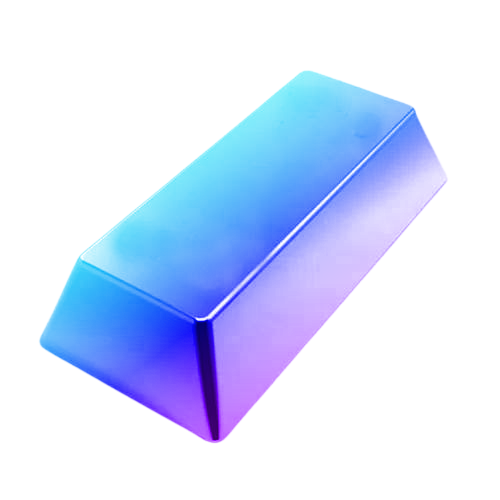
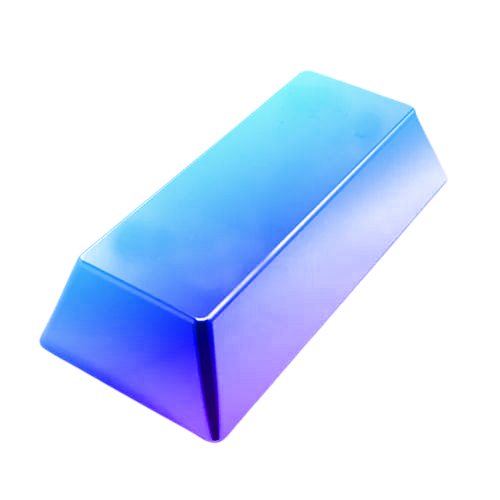
more stuff and v1.8

diff --git a/wiki/games/ball-race-game.html b/wiki/games/ball-race-game.html
@@ -29,11 +29,11 @@
 		<span class="info">
 			<span>release date</span><span>17.02.2026</span>
 		</span><span class="info">
-			<span>current version</span><span>1.¾</span>
+			<span>current version</span><span>1.802</span>
 		</span>
 		</aside>
 		<div class="notice spoiler"><span>SPOILER ALERT<br>gameplay content</span></div>
-		<div class="notice information"><span>Information<br>some updates were deliberately skipped</span></div>
+		<div class="notice green"><span>some updates were skipped</span></div>
 		<p><b>ball race game</b> (in-game as <b>BALL RACE game</b>, colloquially shortened to <b>brg</b>) is a game made by circledude64 and the main game in the ball franchise. It is a simple physics-driven ball racing game in which players select balls and watch them "race" across maps to the goal.</p>
 		<div class="splitter"></div>
 		<h1 class="title-wiki1">Overview</h1>
@@ -47,7 +47,7 @@
 		<h2 class="title-wiki2">Maps</h2>
 		The maps are composed of walls, bouncers, breakables (which have varying health; balls always deal one damage per hit), water that slows balls down (with <a href="../balls/super-balls.html">super float</a> and <a href="../balls/steel.html">steel</a> being unaffected), lava (editor-only feature) that kills balls on contact, and <span class="hide">secret goals</span>.
 		<h2 class="title-wiki2">Interfaces</h2>
-		<aside class="infobox" style="width: auto;"><img src="../../media/pRZcOgiHWY.png" style="width: 320px;" alt="main menu">Main menu</aside>
+		<aside class="infobox" style="width: auto;"><img src="../../media/RJ1zhOpTF8.png" style="width: 320px;" alt="main menu">Main menu</aside>
 		<h3 class="title-wiki3">Main menu</h3>
 		The main menu features<br>
 		• a PLAY button (leads to the ball selection menu)<br>
@@ -56,7 +56,7 @@
 		• a throbber (<a href="https://en.wikipedia.org/wiki/Throbber">what?</a>) indicating that tracks are being downloaded<br>
 		• and ball of the day<br>
 		<h3 class="title-wiki3">Ball selection menu</h3>
-		<aside class="infobox" style="width: auto;"><img src="../../media/Gq8xgTLbIT.png" style="width: 320px;" alt="balls">Balls</aside>
+		<aside class="infobox" style="width: auto;"><img src="../../media/xvpYQ8J0Z3.png" style="width: 320px;" alt="balls">Balls</aside>
 		The ball selection menu offers 4 pages of buttons, arranged in a 9x3 manner (not all are occupied) with only an icon for the ball.
 		<p>The first and second pages offer normal balls, the third has super balls, and the 4th has <span class="hide">secret balls</span>.</p>
 		<h3 class="title-wiki3">Race menu</h3>
@@ -72,7 +72,7 @@
 		• have the ball texture rotate freely (always on for <span class="hide">buff dagger</span> and <span class="hide">not buff dagger</span>)<br>
 		• FPS counter<br>
 		• changing the background<br>
-		<aside class="infobox" style="width: auto;"><img src="../../media/GazGnxI6nU.png" style="width: 320px;" alt="balls">Hieroglyphics</aside>
+		<aside class="infobox" style="width: auto;"><img src="../../media/NSleUmurp4.png" style="width: 320px;" alt="settings">Hieroglyphics</aside>
 		• changing what tracks play<br>
 		• having the selected balls not reset when exiting and re-entering the ball selection menu<br>
 		• weapons spinning around balls (that deal 1 damage to breakables)<br>
@@ -82,7 +82,7 @@
 		<h2 class="title-wiki2">release 1 - 17.02</h2>
 		The game was released to the public.
 		<h2 class="title-wiki2">release 2 - 18.02</h2>
-		Adds one secret ball, one map and changes the bouncer's color to a gradient; it wasn't changed since.
+		Adds one secret ball, one map and changes the bouncer's color to a gradient; it hasn't changed since.
 		<h2 class="title-wiki2">release 3 - 19.02</h2>
 		Adds swap and player along withother changes.
 		<h2 class="title-wiki2">release 4 - 20.02</h2>
@@ -132,7 +132,7 @@
 		<h2 class="title-wiki2">version 1.65 - 24.08</h2>
 		Adds steel, DJ and prignitz.
 		<h2 class="title-wiki2">version 2.0 - 30.08</h2>
-		sine, code, raytrace, the noise, ons  oo ja and aga are GONE, achievements and secret codes are changed.
+		sine, code, raytrace, the noise, ons  oo ja and aga are GONE, achievements and secret codes have changed.
 		<h2 class="title-wiki2">version 1.66 - 06.09</h2>
 		Adds eunch, tronkie and super paranoid.
 		<h2 class="title-wiki2">version 1.66Д - 12.09</h2>
@@ -143,9 +143,12 @@
 		<h2 class="title-wiki2">version 1.66Д.1 - 24.09</h2>
 		Fixes bugs found in 1.66🔵 and adds green and blue as secret goal balls.
 		<h2 class="title-wiki2">version 1.7 - 14.10</h2>
-		Adds a new secret code a breakable health indication, among other changes.
+		Adds a new secret code, a breakable health indication, among other changes.
 		<h2 class="title-wiki2">version 1.¾ - 25.10</h2>
 		Adds grid and changes intro sound.
+		<h2 class="title-wiki2">version 1.8 - 22.11</h2>
+		Adds <span class="hide">EFFOC BALL</span> and catalyst 2, more splashes, 2 new backgrounds, fixes a few bugs and changes water drag behavior.
+		<p>Version 1.801 is a patch; version 1.802 fixes and adds a few things.</p>
 		<div class="splitter"></div>
 		<h1 class="title-wiki1">Trivia</h1>
 		<aside class="infobox" style="width: auto;"><img src="../../media/A7pOqpv7WB.png" style="width: 300px;" alt="U+1F502 CLOCKWISE RIGHTWARDS AND LEFTWARDS OPEN CIRCLE ARROWS WITH CIRCLED ONE OVERLAY : repeat one item over">Announcement of Goal Racers' death.</aside>

diff --git a/wiki/lore/ballium.html b/wiki/lore/ballium.html
@@ -25,10 +25,10 @@
 		<div class="notice yellow"><span>work in progress<br>symbols undecided yet</span></div>
 		
 		<!-- 
-		△ - g/γ/ɣ/f
-		□ - v/Δ/δ/s
-		▽ - g/S/s/π [peripheros]/Λ/φ
-		☆ - t/T/c [change]/Ψ/U [ultimate]/u
+		△ - g (1 vote)/γ/ɣ/f 
+		□ - v/Δ/δ/s (1 vote)
+		▽ - g/S/s/π [peripheros]/Λ/φ (1 vote)
+		☆ - t/T/c [change]/Ψ (1 vote)/U [ultimate]/u
 		-->
 		<aside class="infobox" style="width: 300px">
 		<img src="../../media/ballium.png" style="width: 270px">
